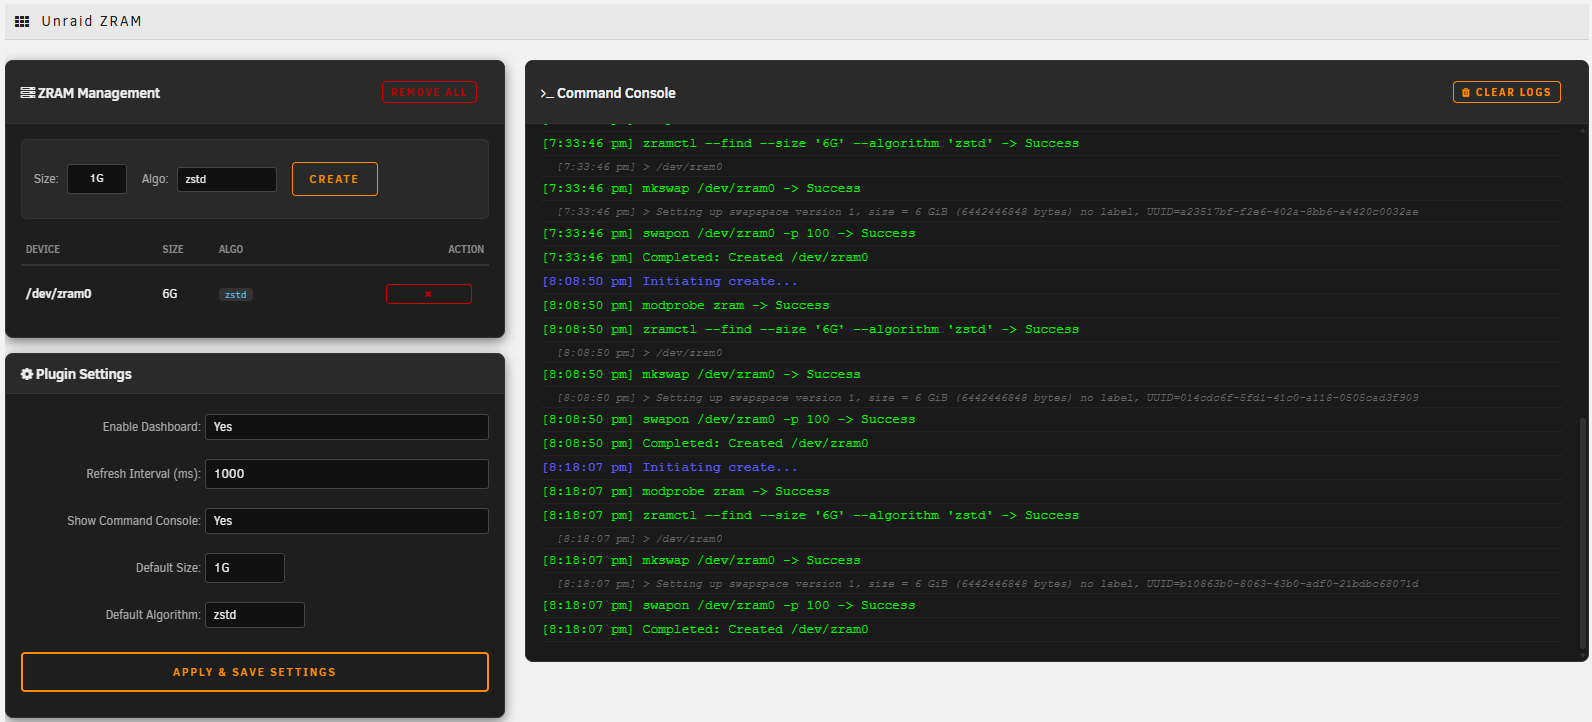
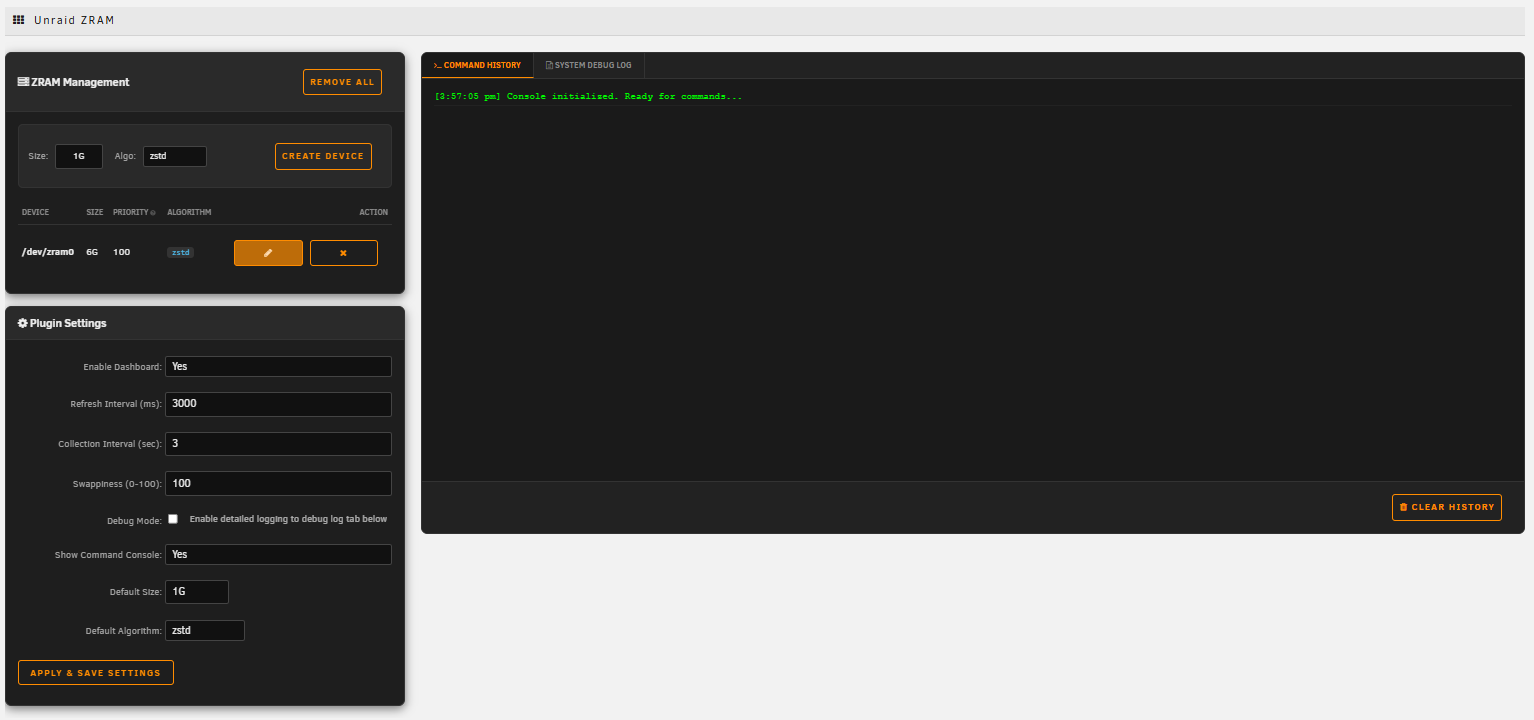
Official Release v2026.02.18.04

diff --git a/src/zram_swap.php b/src/zram_swap.php
@@ -13,6 +13,7 @@ $configFile = "/boot/config/plugins/unraid-zram-card/settings.ini";
 $logDir = "/tmp/unraid-zram-card";
 if (!is_dir($logDir)) @mkdir($logDir, 0777, true);
 $debugLog = $logDir . "/debug.log";
+$cmdLog = $logDir . "/cmd.log";
 
 $logs = [];
 
@@ -33,11 +34,29 @@ function zram_log($msg, $level = 'DEBUG') {
     @chmod($debugLog, 0666);
 }
 
+function cmd_log($msg, $type = '') {
+    global $cmdLog;
+    $entry = [
+        'time' => date('H:i:s'),
+        'msg' => $msg,
+        'type' => $type
+    ];
+    @file_put_contents($cmdLog, json_encode($entry) . "\n", FILE_APPEND);
+    @chmod($cmdLog, 0666);
+}
+
 function run_cmd($cmd, &$logs, $debugLog) {
     exec($cmd . " 2>&1", $out, $ret);
-    $entry = ['cmd' => $cmd, 'output' => implode(" ", $out), 'status' => $ret];
+    $output = implode(" ", $out);
+    $entry = ['cmd' => $cmd, 'output' => $output, 'status' => $ret];
     $logs[] = $entry;
-    zram_log("CMD: $cmd | Status: $ret | Output: " . $entry['output'], 'INFO');
+    
+    zram_log("CMD: $cmd | Status: $ret | Output: " . $output, 'INFO');
+    
+    $status = $ret === 0 ? 'Success' : 'Fail';
+    cmd_log("$cmd -> $status", $ret === 0 ? '' : 'err');
+    if ($output) cmd_log("  > $output", 'debug');
+    
     return $ret;
 }
 
@@ -104,8 +123,37 @@ if ($action === 'view_log') {
     exit;
 }
 
+if ($action === 'view_cmd_log') {
+    header('Content-Type: application/json');
+    $entries = [];
+    if (file_exists($cmdLog)) {
+        $lines = file($cmdLog, FILE_IGNORE_NEW_LINES | FILE_SKIP_EMPTY_LINES);
+        foreach ($lines as $line) {
+            $entry = json_decode($line, true);
+            if ($entry) $entries[] = $entry;
+        }
+    }
+    echo json_encode($entries);
+    exit;
+}
+
 // For all other actions, we return JSON
 header('Content-Type: application/json');
+
+if ($action === 'append_cmd_log') {
+    $msg = $_POST['msg'] ?? '';
+    $type = $_POST['type'] ?? '';
+    cmd_log($msg, $type);
+    echo json_encode(['success' => true]);
+    exit;
+}
+
+if ($action === 'clear_cmd_log') {
+    @file_put_contents($cmdLog, "");
+    cmd_log("Console cleared.");
+    echo json_encode(['success' => true]);
+    exit;
+}
 
 // New API: Check if it's safe to modify a device (for UI warnings)
 if ($action === 'check_safety') {

diff --git a/src/zram_collector.php b/src/zram_collector.php
@@ -9,23 +9,22 @@ if (!is_dir($logDir)) mkdir($logDir, 0777, true);
 $historyFile = "$logDir/history.json";
 $pidFile = "$logDir/collector.pid";
 $maxPoints = 300;
-$interval = 12; // seconds
 $configFile = "/boot/config/plugins/unraid-zram-card/settings.ini";
 $debugLog = "$logDir/debug.log";
 
-// Load Settings for Debug Flag
+// Load Settings
 $settings = @parse_ini_file($configFile);
+$interval = intval($settings['collection_interval'] ?? 3);
+if ($interval < 1) $interval = 3;
 
 function zram_log($msg, $level = 'DEBUG') {
     global $debugLog, $configFile;
-    static $debugFlag = null;
-    if ($debugFlag === null) {
-        $loaded = @parse_ini_file($configFile);
-        $debugFlag = ($loaded['debug'] ?? 'no') === 'yes';
-    }
-
+    
     $level = strtoupper($level);
-    if ($level === 'DEBUG' && !$debugFlag) return;
+    if ($level === 'DEBUG') {
+        $loaded = @parse_ini_file($configFile);
+        if (($loaded['debug'] ?? 'no') !== 'yes') return;
+    }
 
     $logMsg = date('[Y-m-d H:i:s] ') . "[$level] $msg\n";
     @file_put_contents($debugLog, $logMsg, FILE_APPEND);
@@ -73,6 +72,7 @@ while (true) {
 
         // --- 2. Calculate CPU Load ---
         $currentTotalTicks = 0;
+        $stats_out = [];
         exec("cat /sys/block/zram*/stat 2>/dev/null", $stats_out);
         foreach ($stats_out as $line) {
             $stats = preg_split('/\s+/', trim($line));

diff --git a/src/ZramCard.php b/src/ZramCard.php
@@ -1,5 +1,6 @@
 <?php
 // ZramCard.php - Live Stats with Chart
+// Refreshed: 2026-02-13
 
 if (!function_exists('getZramDashboardCard')) {
     function getZramDashboardCard() {

diff --git a/README.md b/README.md
@@ -8,13 +8,13 @@ A modern, high-contrast dashboard card and management utility for ZRAM swap devi
 
 *   **Real-time Dashboard Card:** Monitor RAM saved, compression ratio, and actual ZRAM usage with a live-updating history chart.
 *   **On-the-fly Management:** Create and remove ZRAM swap devices directly from the Settings page.
-
-![Settings Preview](https://raw.githubusercontent.com/johnpwhite/unraid-plugin-zram/main/docs/images/settings.png)
-
 *   **Compression Choice:** Support for all kernel-supported algorithms (`zstd`, `lz4`, `lzo`, etc.).
 *   **Boot Persistence:** Automatically re-applies your ZRAM configuration on every boot.
 *   **Safe Evacuation:** Built-in guards to prevent OOM crashes when removing ZRAM devices.
 *   **Air-Gap Support:** "Hybrid Installer" logic supports servers without internet access via manual file placement.
+
+## Understanding ZRAM
+ZRAM is a tool that creates a "compressed swap" area in your RAM. Instead of your computer slowing down when it runs out of memory, it compresses older data into a smaller space within your RAM. This is much faster than using a hard drive or SSD for swap.
 
 ## Installation
 
@@ -25,12 +25,25 @@ Search for **"Unraid ZRAM"** in the Apps tab.
 Copy the link below and paste it into the **Plugins > Install Manager** tab:
 `https://github.com/johnpwhite/unraid-plugin-zram/raw/main/unraid-zram-card.plg`
 
-## Usage
+## Settings & Usage Guide
 
+### Plugin Settings
+- **Enable Dashboard**: Controls whether the ZRAM status card appears on your main Unraid Dashboard.
+- **Refresh Interval (ms)**: How often the Dashboard card updates its live statistics (Default: 3000).
+- **Collection Interval (sec)**: How often the background service records data for the history chart (Default: 3).
+- **Swappiness (0-100)**: Controls how "aggressive" the system is about using ZRAM. A value of **100** is recommended for ZRAM.
+- **Debug Mode**: Records detailed technical logs for troubleshooting.
+- **Show Command Console**: Displays a real-time terminal window at the bottom of the settings page.
+
+### Managing ZRAM Devices
 1.  Navigate to **Settings > Unraid ZRAM**.
-2.  Choose your desired size and compression algorithm.
-3.  Click **Create Device**.
-4.  View your statistics on the main **Dashboard**.
+2.  **Adding a Device**: Enter a size (e.g., `4G`), choose a compression algorithm (`zstd` recommended), and click **Create Device**.
+3.  **Removing a Device**: Click the **X** icon next to the device. Note: Devices cannot be resized while in use.
+4.  **Adjusting Priority**: Click the **Pencil icon** next to a device, enter a new priority number (higher is used first), and click **Apply Changes**.
+
+### Diagnostics & Logs
+- **Command History**: Shows a simplified log of all actions taken (persists across refreshes).
+- **System Debug Log**: Shows raw technical output from background services.
 
 ## Requirements
 *   Unraid 6.12.1 or newer (Optimized for Unraid 7.2+).

diff --git a/docs/architecture.md b/docs/architecture.md
@@ -1,0 +1,31 @@
+# Unraid Plugin: ZRAM Status & Management
+
+## 1. Context & Goals
+**Project**: Unraid ZRAM Status & Management Plugin.
+**Goal**: Maintain a high-quality dashboard card and swap management utility for Unraid 7.2+.
+
+**Generic Development Guide:**
+For general Unraid Plugin development workflow (`.plg` XML, Dashboard safety, etc.), refer to the **Master Index**:
+[unraid-community-applications-index/unraid-development-guide.md](../../unraid-community-applications-index/unraid-development-guide.md)
+
+---
+
+## 2. Project Architecture
+
+### Key File Map
+*   **`unraid-zram-card.plg`**: The main installer and lifecycle manager.
+*   **`src/unraid-zram-card/ZramCard.php`**: Dashboard card logic (Function Pattern).
+*   **`src/unraid-zram-card/UnraidZramCard.page`**: Settings UI (Native Dynamix).
+*   **`src/unraid-zram-card/zram_swap.php`**: Backend device manager (with Safety Guards).
+*   **`src/unraid-zram-card/zram_init.sh`**: Boot persistence script (via `.plg` install phase).
+
+### Core Technical Principles
+- **Boot Persistence**: The `zram_init.sh` script is executed during the plugin's installation phase to ensure ZRAM devices are initialized upon every system boot.
+- **Dynamic Binary Path**: All backend calls to `zramctl` or `swapon` must check for existence in standard paths (`/sbin/`, `/usr/sbin/`) to ensure compatibility with Unraid 7.2+.
+- **Ampersand Safety**: Always use `&amp;` instead of `&` in the `.plg` XML to prevent parser crashes.
+
+## 3. Workflow (Factory vs Storefront)
+This project follows the **"Factory (GitLab) vs. Storefront (GitHub)"** strategy.
+- For private development and testing (GitLab), use the `unraid-factory` skill (`/cmt-plg`).
+- For official public releases (GitHub), use the `unraid-storefront` skill (`/pub-plg`).
+

diff --git a/src/README.md b/src/README.md
@@ -1,0 +1,3 @@
+**Unraid ZRAM** provides real-time dashboard monitoring and management for ZRAM swap devices.
+- **Stats**: Live Used vs. Total usage and compression ratios.
+- **Control**: Easy creation, resizing, and swappiness management.
